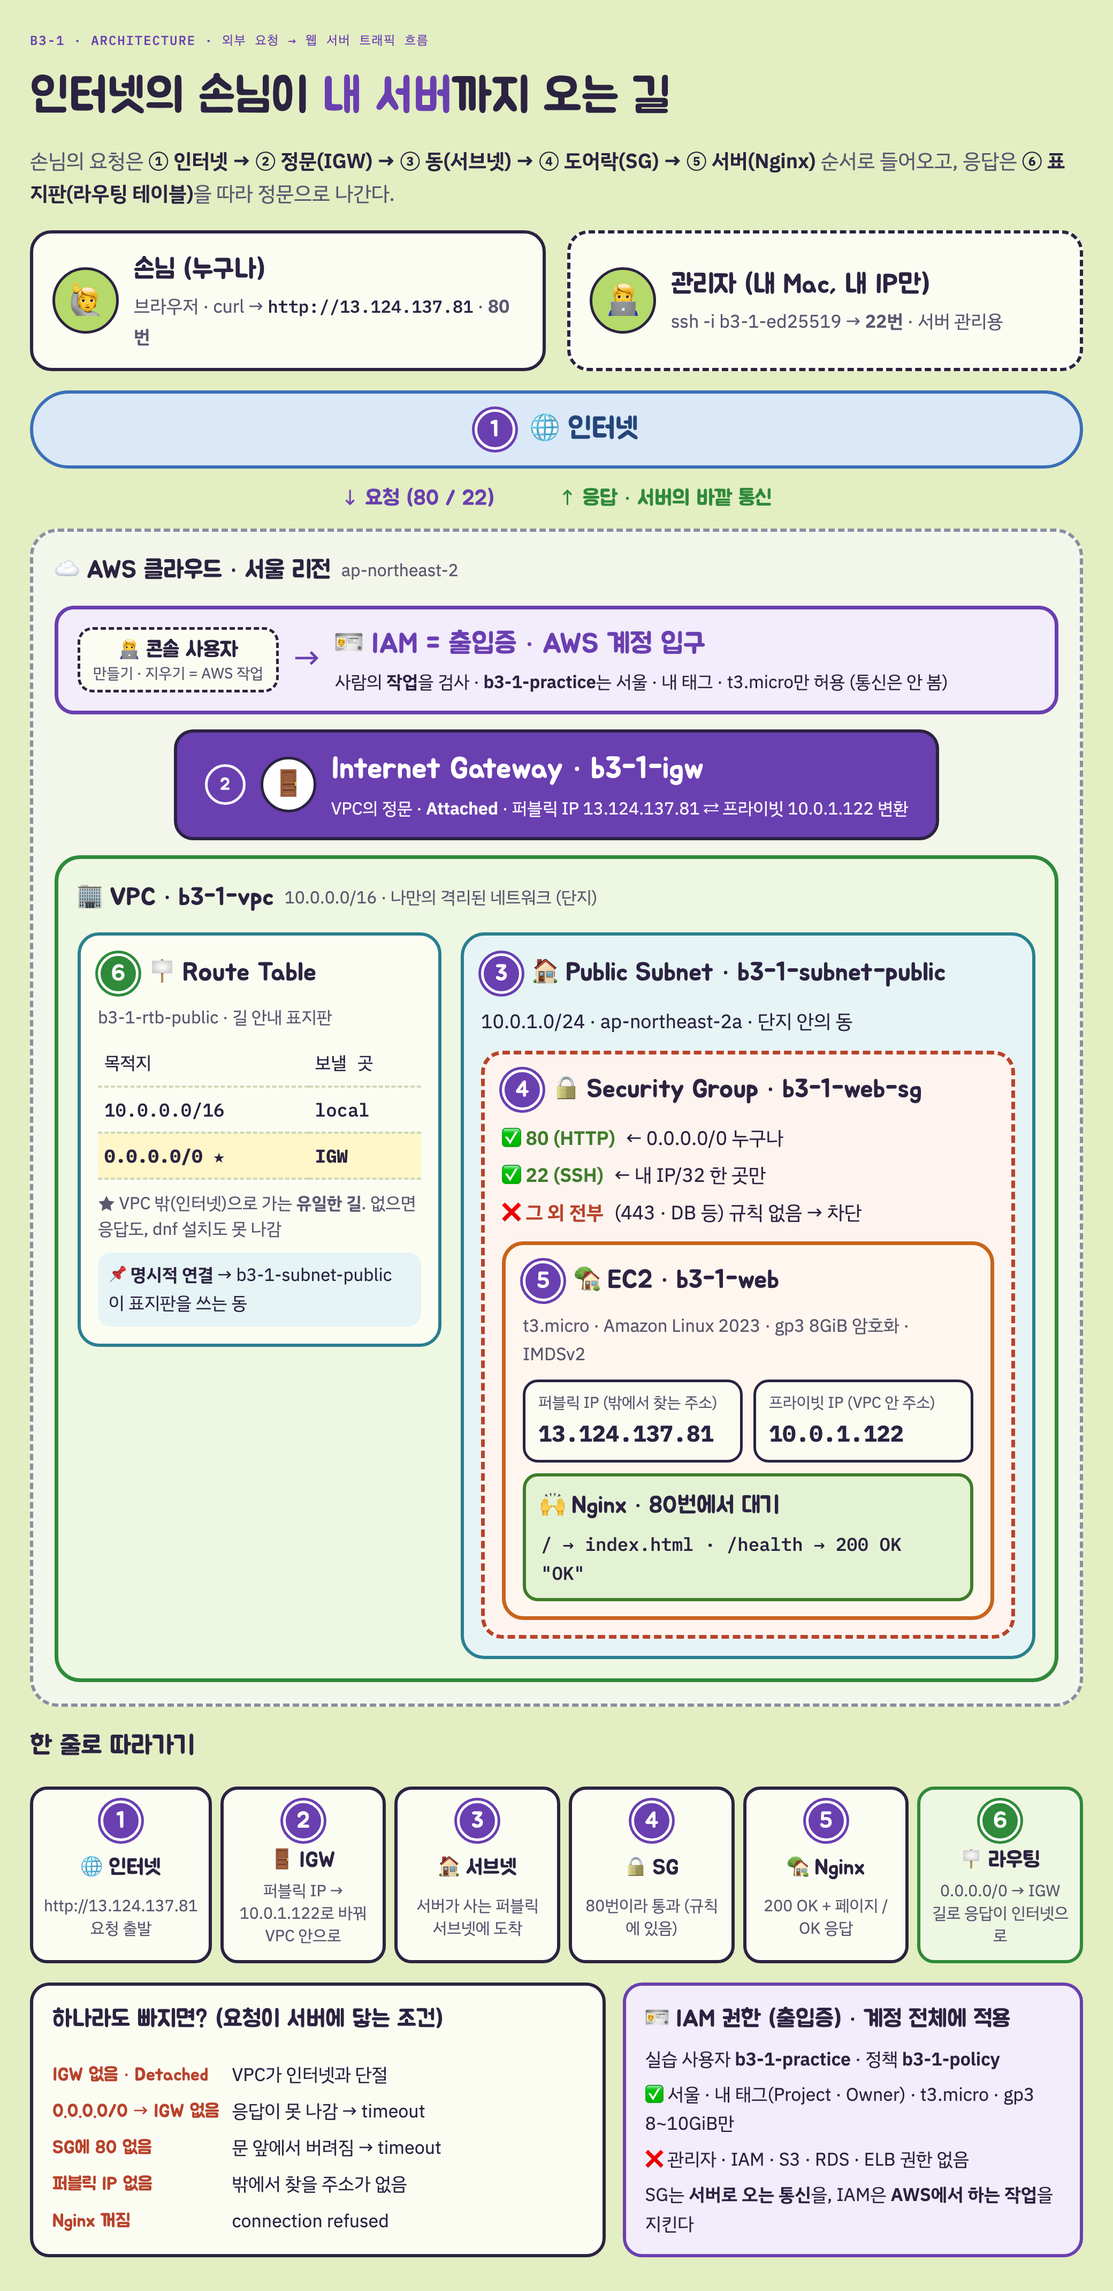
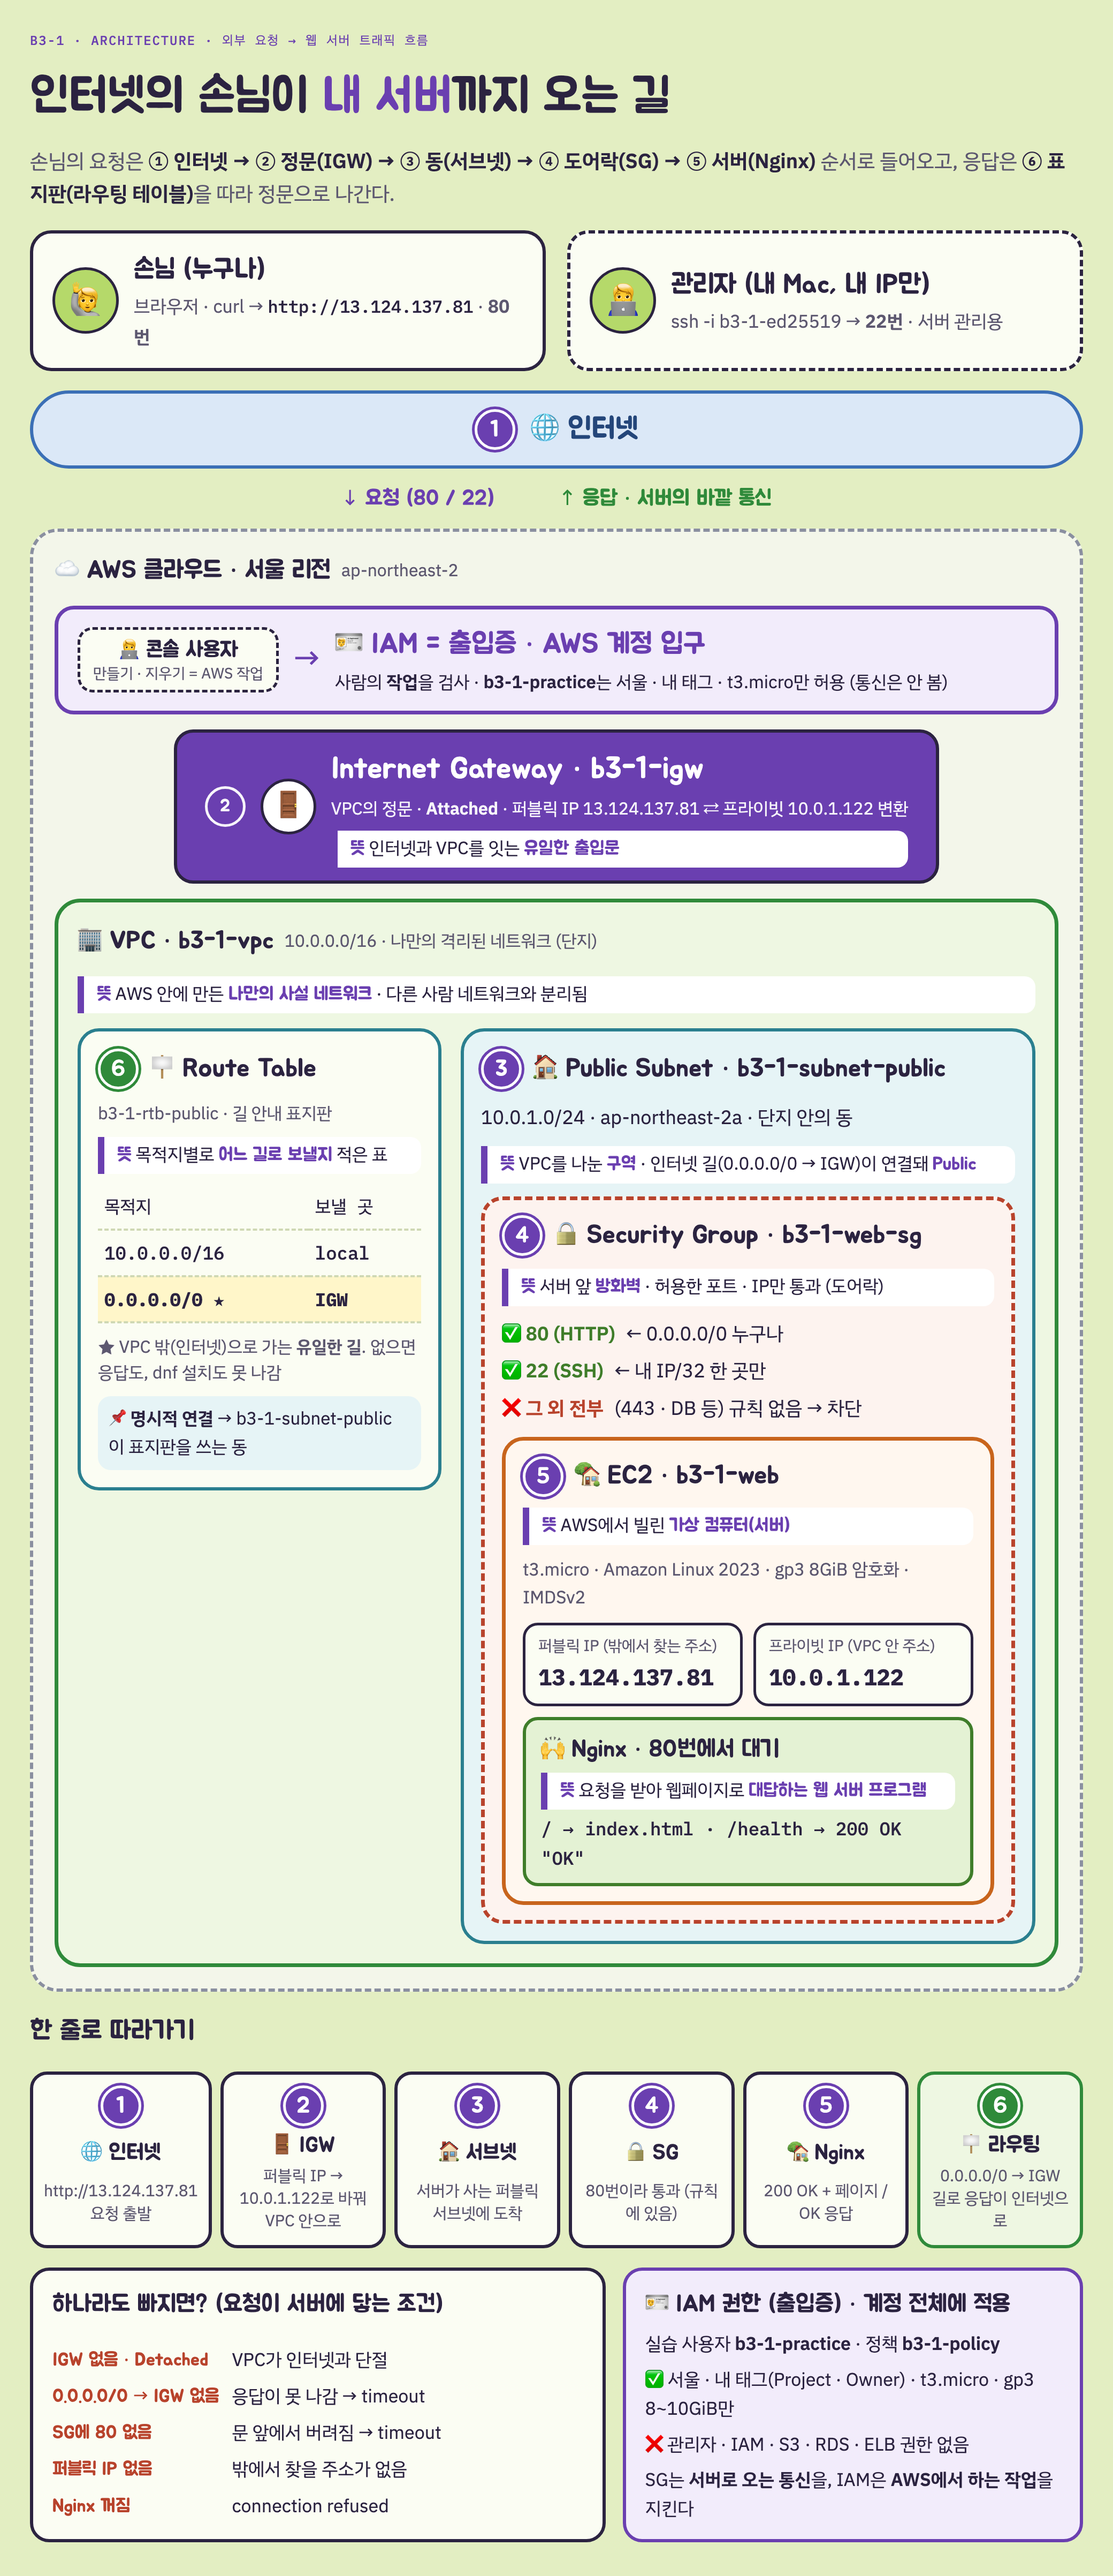
docs: 아키텍처 그림에 구성 요소별 뜻 추가, README에 그림 설명 추가

diff --git a/README.md b/README.md
@@ -289,6 +289,18 @@ systemctl is-active nginx
 
 ![아키텍처](docs/architecture.png)
 
+**그림 설명: 손님이 내 서버까지 오는 길**
+
+1. **인터넷**: 손님이 `http://13.124.137.81`로 요청
+2. **IGW (정문)**: 인터넷에서 내 네트워크(VPC)로 들어오는 유일한 문
+3. **서브넷 (동)**: VPC 안에서 서버가 놓인 구역
+4. **보안 그룹 (도어락)**: 80번만 통과, 나머지 차단
+5. **EC2 · Nginx (집 · 직원)**: 서버가 요청을 받아 웹페이지로 대답
+
+- **응답**: 라우팅 테이블(표지판)의 `0.0.0.0/0 → IGW`를 보고 정문으로 나감
+- **IAM (출입증)**: 통신이 아니라 AWS를 조작하는 사람을 막음
+- **하나라도 빠지면** 접속 안 됨
+
 **요청이 서버에 닿는 다섯 가지 조건** — 하나라도 빠지면 접속이 안 된다.
 
 ![편지 한 통이 집까지 가는 길](docs/study/02-letter-journey.png)
